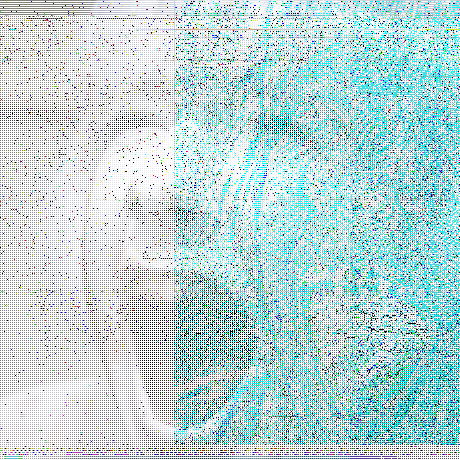
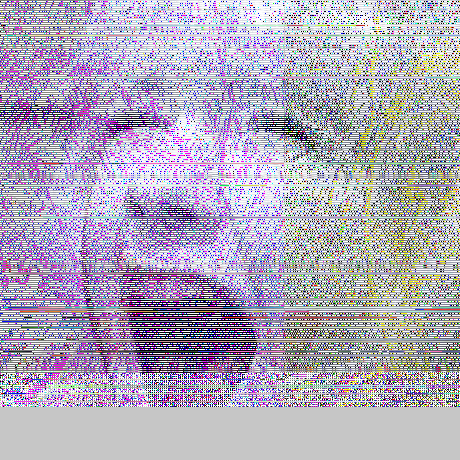
Molnar and Riley improvements to scene and display code

diff --git a/src/scenes/robbyMolnarScene/robbyMolnarScene.cpp b/src/scenes/robbyMolnarScene/robbyMolnarScene.cpp
@@ -86,12 +86,12 @@ void robbyMolnarScene::setup(){
     vRect.setup(50, dimensions.height);
     vRect.centerX = centerX;
     vRect.centerY = centerY;
-    float space = centerY / 4.0;
-    for(int i = 0; i < 36; i++){
+    float space = centerY / 2.0;
+    for(int i = 0; i < 9; i++){
         veraRect v;
-        v.setup(50, dimensions.height*.25);
-        v.centerX = space*.5 + centerX - space*3 + space*(i%6);
-        v.centerY = space*.5 + centerY - space*3 + space*((int)(i/6));
+        v.setup(50, dimensions.height*.5);
+        v.centerX = space*.5 + centerX - space*1.5 + space*(i%3);
+        v.centerY = space*.5 + centerY - space*1.5 + space*((int)(i/3));
         veraRects.push_back(v);
     }
 }
@@ -103,7 +103,7 @@ void robbyMolnarScene::draw(){
 
 //    vRect.draw(numRectangles, disarray);
 
-    for(int i = 0; i < 36; i++){
+    for(int i = 0; i < 9; i++){
         veraRects[i].draw(numRectangles, disarray);
     }
 
